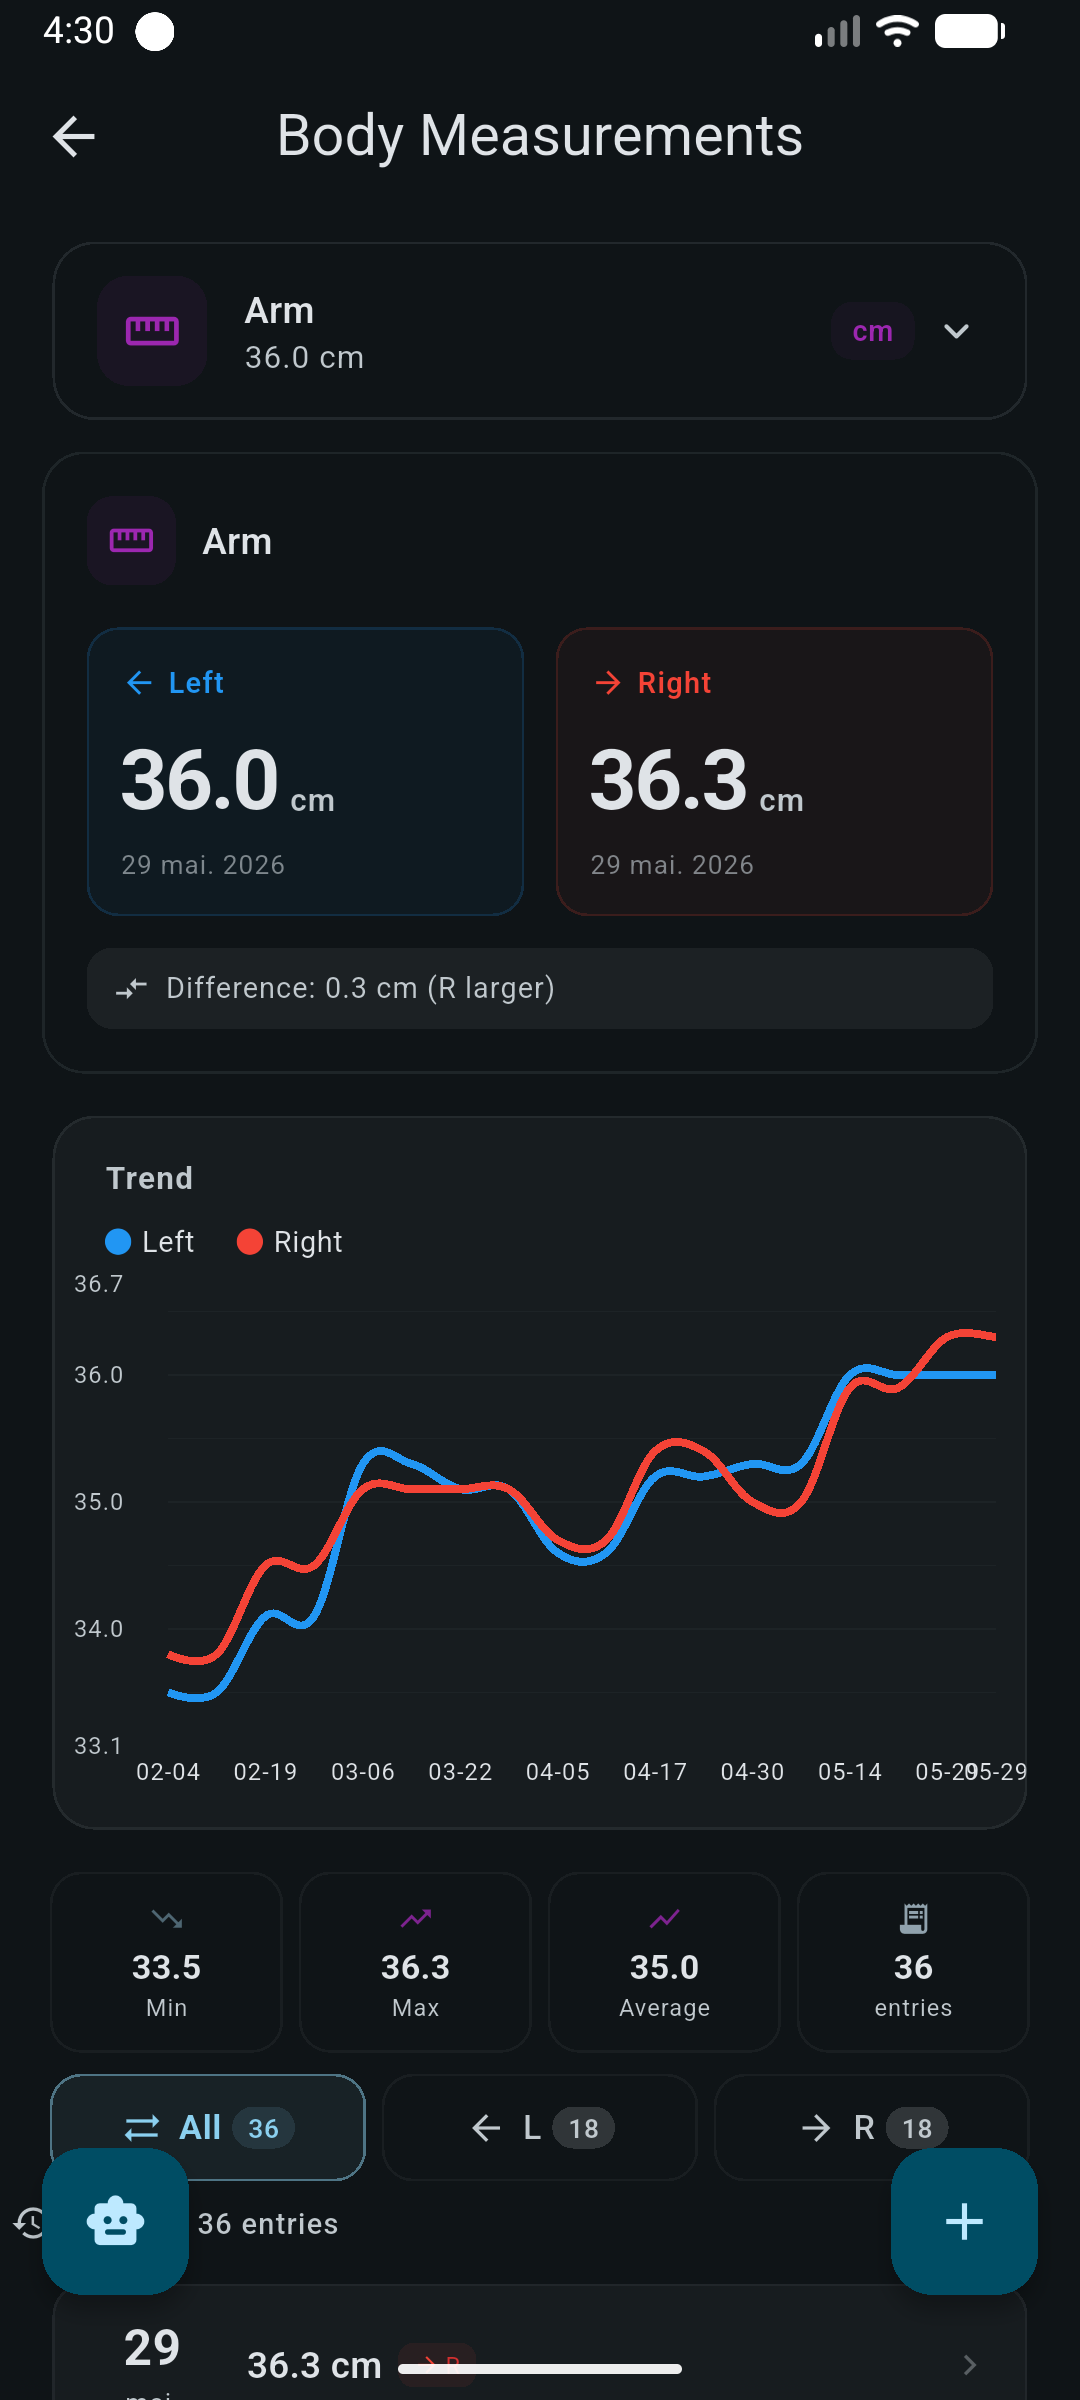
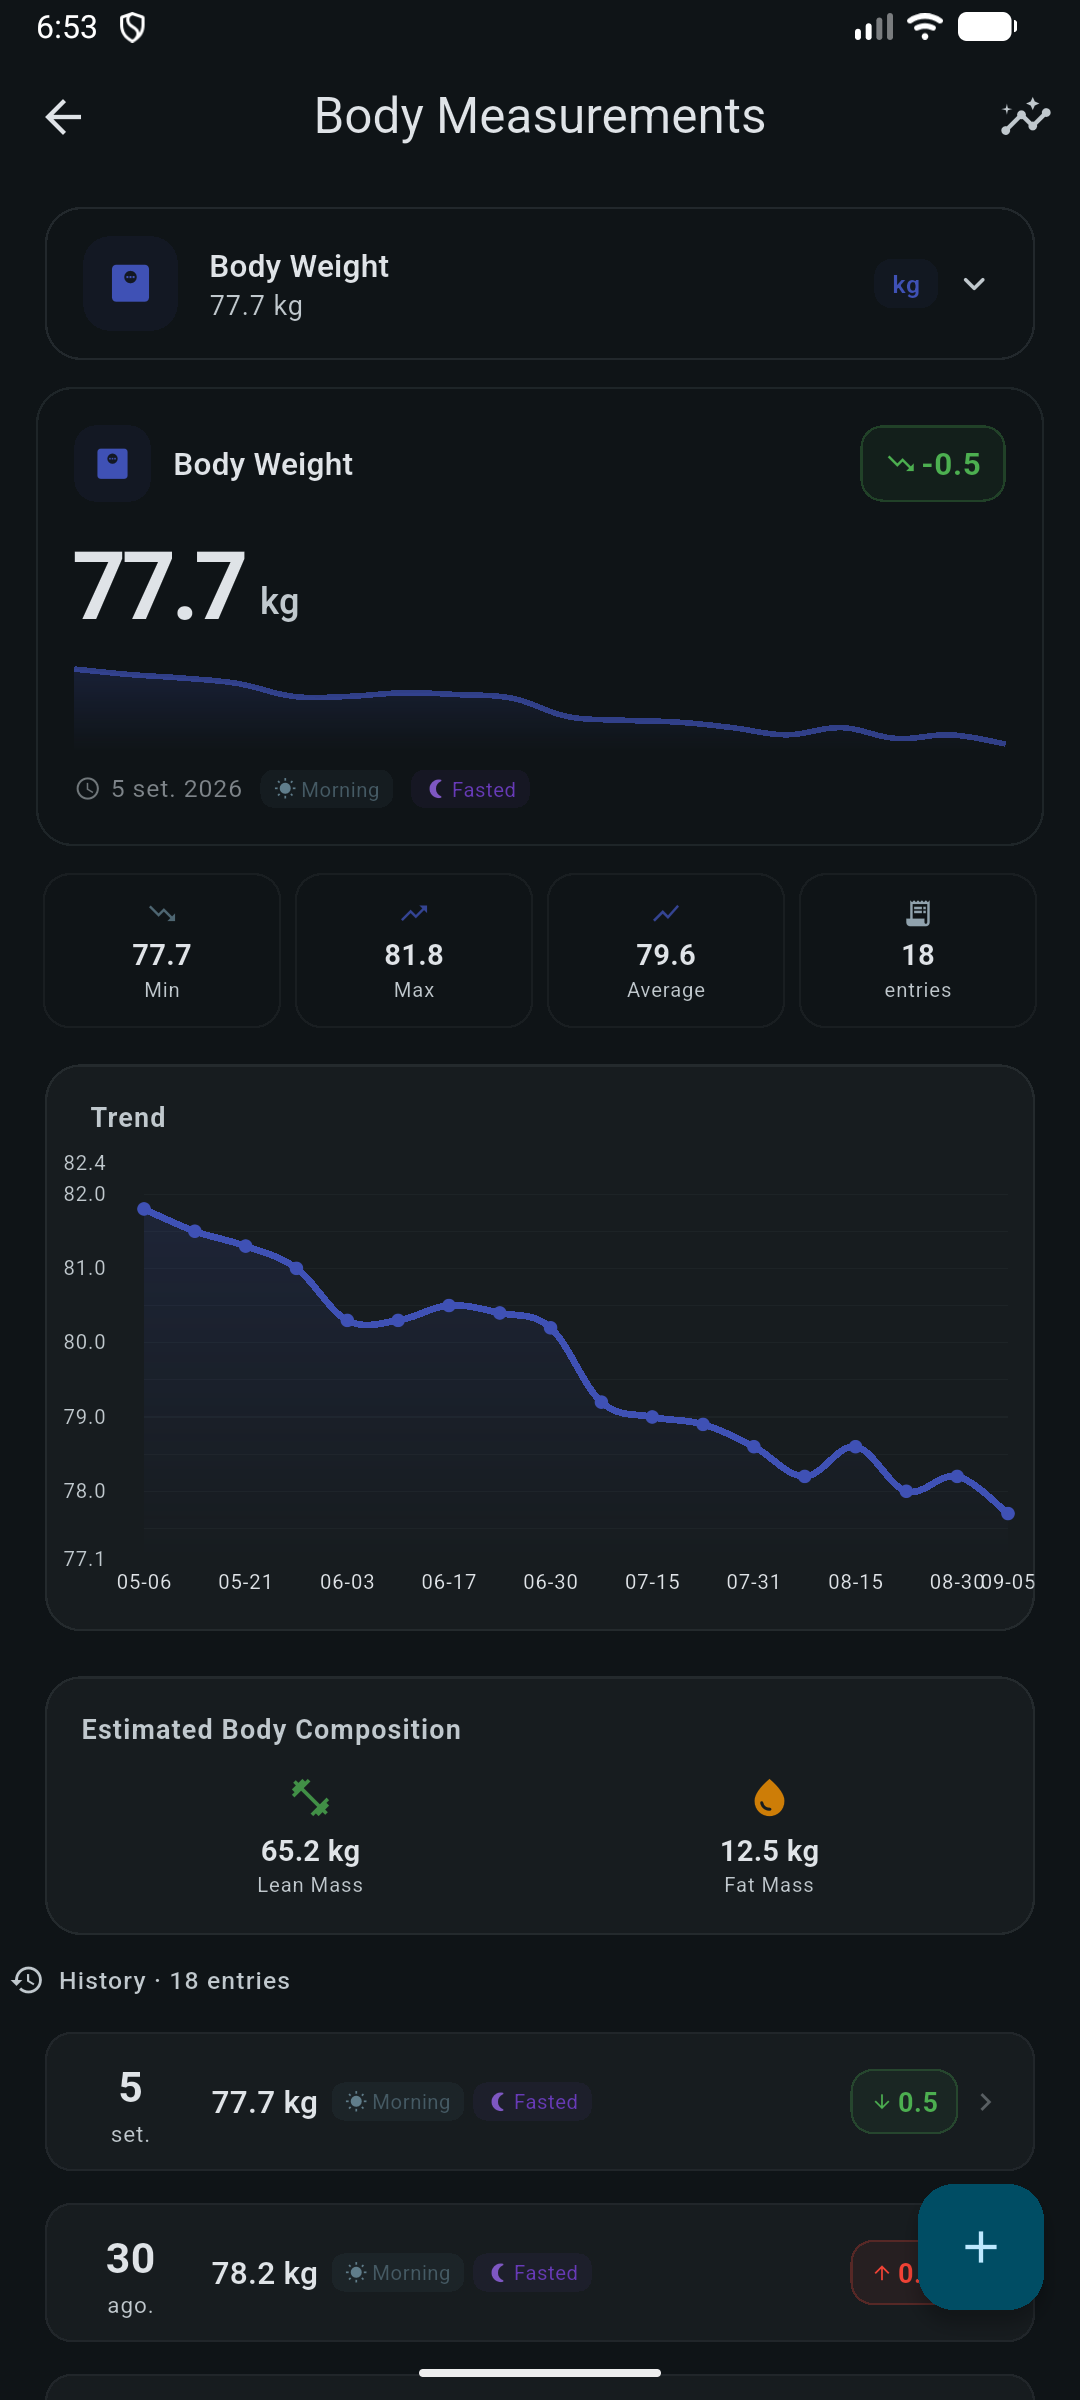
docs: refresh README and update screenshots
- Rewrite README around training, nutrition, sleep, and planning
- Replace outdated screenshots with current dark-mode captures
- Condense setup, development, and data sections

diff --git a/README.md b/README.md
@@ -1,179 +1,95 @@
 <h1 align="center">Workout Notes</h1>
 
 <p align="center">
-  <a href="https://www.linkedin.com/in/rafael-goulartb/">
-    <img alt="Rafael Goulart" src="https://img.shields.io/badge/-Rafael%20Goulart-0B7285?style=flat&logo=Linkedin&logoColor=white" />
-  </a>
-  <a href="https://github.com/RafaelGoulartB/workout-notes#readme">
-    <img alt="Documentation" src="https://img.shields.io/badge/documentation-yes-0B7285.svg" />
-  </a>
-  <a href="https://github.com/RafaelGoulartB/workout-notes/graphs/commit-activity">
-    <img alt="Maintenance" src="https://img.shields.io/badge/Maintained%3F-yes-0B7285.svg" />
-  </a>
-  <a href="https://github.com/RafaelGoulartB/workout-notes/blob/main/LICENSE">
-    <img alt="License: MIT" src="https://img.shields.io/badge/License-MIT-0B7285.svg" />
-  </a>
-  <a href="https://github.com/RafaelGoulartB/workout-notes/actions/workflows/release-android.yml">
-    <img alt="Android release" src="https://img.shields.io/github/actions/workflow/status/RafaelGoulartB/workout-notes/release-android.yml?branch=main&label=Android%20release&color=0B7285" />
-  </a>
-  <img alt="GitHub Pull Requests" src="https://img.shields.io/github/issues-pr/RafaelGoulartB/workout-notes?color=0B7285" />
-  <img alt="GitHub Contributors" src="https://img.shields.io/github/contributors/RafaelGoulartB/workout-notes?color=0B7285" />
-  <img alt="GitHub repository size" src="https://img.shields.io/github/repo-size/RafaelGoulartB/workout-notes?color=0B7285" />
-</p>
-
-> A local-first workout journal built with Flutter for logging training, routines, progress, goals, and body measurements.
-
-It is designed for recording strength and cardio sessions, following routines, and understanding progress without sending workout data to a hosted account.
-
-The app combines a practical workout logger with history, goals, body measurements, detailed charts, and an optional AI coach that connects to an OpenAI-compatible provider chosen by the user.
-
-## Screenshots
-
-<p align="center">
-  <img src="assets/screenshots/home.png" width="30%" alt="Workout Notes home screen" />
-  <img src="assets/screenshots/workout-progress.png" width="30%" alt="Active workout with exercises and sets" />
-  <img src="assets/screenshots/workout-finish.png" width="30%" alt="Completed workout summary" />
+  Training, nutrition, sleep, and progress in one local-first app.
 </p>
 
 <p align="center">
-  <img src="assets/screenshots/progress.png" width="30%" alt="Training progress and goals dashboard" />
-  <img src="assets/screenshots/body-measurements.png" width="30%" alt="Body measurement history and chart" />
+  <a href="https://github.com/RafaelGoulartB/workout-notes/actions/workflows/release-android.yml"><img alt="Android release" src="https://img.shields.io/github/actions/workflow/status/RafaelGoulartB/workout-notes/release-android.yml?branch=main&label=Android%20release&color=0B7285" /></a>
+  <a href="LICENSE"><img alt="License: MIT" src="https://img.shields.io/badge/License-MIT-0B7285.svg" /></a>
 </p>
 
-## Features
+Workout Notes brings strength training, GPS runs, food logging, sleep tracking, and body measurements together. Build routines, follow a periodized plan, and see how your habits change over time. Your journal lives on your device, with no account required.
 
-### Workout logging
+Built with Flutter and Material 3, with English and Brazilian Portuguese, metric and imperial units, light and dark themes, and a customizable accent color. **Android is the most complete target**: background tracking, sleep monitoring, alarms, barcode scanning, and run voice coaching rely on native Android integrations.
 
-- Record strength and cardio workouts with a live session timer.
-- Track weight, repetitions, distance, time, warm-up sets, RPE, and notes.
-- Configure rest times per exercise and use automatic rest-timer notifications.
-- Reorder exercises, group supersets, pause a session, or return to a workout already in progress.
-- Add a past workout quickly when a live session is not needed.
-- Review each completed session with volume, density, highlights, muscle-group distribution, and comparison with a similar workout.
+## Train and track your progress
 
-### Exercises and routines
+- **Strength training:** log sets, weight, reps, warm-ups, RPE, and notes. Build multi-day routines, group supersets, use rest timers, and review completed sessions.
+- **Running and cardio:** record GPS routes or stationary-bike sessions, follow running plans and intervals, and use voice coaching. Review pace, splits, route replays, records, and trends.
+- **Goals and measurements:** follow training volume, frequency, personal records, and an annual heatmap. Track weight, body composition, circumferences, and progress photos.
 
-- Browse, search, favorite, and create exercises.
-- Organize exercises by category, equipment, and training type.
-- Build reusable multi-day routines with predefined sets and rest periods.
-- Plan workouts for future dates and review training history from the calendar.
+<table>
+  <tr>
+    <th width="33%">Training progress</th>
+    <th width="33%">Run analysis</th>
+    <th width="33%">Body measurements</th>
+  </tr>
+  <tr>
+    <td><a href="assets/screenshots/progress.png"><img src="assets/screenshots/progress.png" width="100%" alt="Training report with goals, annual activity heatmap, and weekly workout frequency" /></a></td>
+    <td><a href="assets/screenshots/run.png"><img src="assets/screenshots/run.png" width="100%" alt="Completed GPS run with route map, distance, pace, achievements, and pace chart" /></a></td>
+    <td><a href="assets/screenshots/body-measurements.png"><img src="assets/screenshots/body-measurements.png" width="100%" alt="Body weight history with a trend chart and estimated body composition" /></a></td>
+  </tr>
+</table>
 
-### Progress and goals
+## Connect food, recovery, and planning
 
-- See monthly reports, training streaks, total volume, workout frequency, and an annual heatmap.
-- Follow strength, cardio, duration, recovery, and body-composition trends.
-- Inspect exercise history and personal records.
-- Create measurable goals and track the workouts that contribute to them.
+- **Nutrition:** keep a daily food diary with calorie and macro targets, saved meals, food search, barcode lookup, and nutrition trends.
+- **Sleep:** log nights or monitor sleep on Android. Review duration, efficiency, regularity, estimated sleep stages, and weekly summaries; configure alarms and a sleep goal.
+- **Periodization:** organize training into phases and weeks, link routines and running plans, set nutrition, training, weight, and sleep targets, and review check-ins or compare cycles.
 
-### Body measurements
+<table>
+  <tr>
+    <th width="33%">Nutrition diary</th>
+    <th width="33%">Sleep and recovery</th>
+    <th width="33%">Periodization</th>
+  </tr>
+  <tr>
+    <td><a href="assets/screenshots/nutrition.png"><img src="assets/screenshots/nutrition.png" width="100%" alt="Nutrition diary with daily calories, macronutrients, a plan-linked target, and meals" /></a></td>
+    <td><a href="assets/screenshots/sleep.png"><img src="assets/screenshots/sleep.png" width="100%" alt="Sleep dashboard with goal completion, efficiency, bedtime, and estimated sleep stages" /></a></td>
+    <td><a href="assets/screenshots/periodization.png"><img src="assets/screenshots/periodization.png" width="100%" alt="Active periodization plan with phases, weekly nutrition and training targets, and a weekly review" /></a></td>
+  </tr>
+</table>
 
-- Track weight, body composition, circumferences, and other measurements over time.
-- Compare left and right measurements for bilateral entries.
-- View trends, summaries, averages, and measurement history.
-- Attach progress photos to measurement entries.
+<sub>Captured from the Android emulator in dark mode. Tap an image to view it at full resolution.</sub>
 
-### AI Coach
+## Optional AI Coach
 
-The optional AI Coach can discuss training history and help with routine planning. It supports user-configured OpenAI-compatible providers, models, and system prompts.
+Connect your own OpenAI-compatible provider to discuss training, running, nutrition, and recovery using context from your journal. Configure the provider URL, API token, and model in **Settings > Configure AI**.
 
-The coach receives workout context only when used. API credentials are stored with the platform's secure storage, and the app does not include a hosted AI service or bundled API key. Read tools let the coach inspect local training data; routine changes are created as proposals and are applied only after explicit approval in the app.
+When used, the coach sends conversation and relevant app data to your chosen provider. Routine and manual-food changes are presented as proposals for approval before they are applied. Credentials stay in platform secure storage; no API key or hosted AI service is bundled.
 
-### Data and customization
+## Your data
 
-- Store workout data locally in SQLite; no account is required.
-- Export and restore a compact JSON backup for device migration, including
-  essential history, preferences, and progress photos. AI conversations and
-  proposals, detailed sleep stages, API tokens, runtime permissions, active
-  background state, raw diagnostics, and rebuildable caches are intentionally
-  excluded.
-- Export workout data as CSV and share completed sessions.
-- Switch between metric and imperial units.
-- Choose English or Brazilian Portuguese.
-- Use light, dark, or system theme with a selectable accent color.
+Core logging works locally in SQLite. Online features such as AI, map tiles, and remote food lookup need connectivity. Export and restore a compact JSON backup for device migration, or export workouts as CSV and share session summaries.
 
-## Tech stack
+Backups include essential history, preferences, and progress photos, but exclude API tokens, AI conversations and proposals, detailed sleep stages, permissions, and active background sessions.
 
-- [Flutter](https://flutter.dev/) and Dart
-- Material 3
-- SQLite with `sqflite`
-- `fl_chart` for analytics and progress charts
-- `flutter_local_notifications` for workout and rest timers
-- `shared_preferences` and `flutter_secure_storage` for settings and credentials
-- `http` for OpenAI-compatible AI providers
+## Run locally
 
-The project intentionally uses lightweight state management: local `setState` for screen state and `ChangeNotifier` for shared services and settings.
-
-## Getting started
-
-### Requirements
-
-- Flutter SDK compatible with Dart 3.12 or newer
-- Android Studio or Xcode, depending on the target platform
-- A configured emulator or physical device
-
-Check your environment before installing dependencies:
+Use a Flutter SDK with Dart **3.12.1 or a compatible newer 3.x version**, Android tooling, and an emulator or physical device.
 
 ```bash
 flutter doctor
 flutter pub get
-```
-
-Run the app:
-
-```bash
 flutter run
 ```
 
-To use the AI Coach, open **Settings > Configure AI** and add the base URL, API token, and model for an OpenAI-compatible provider. The rest of the app works without AI configuration.
-
 ## Development
 
-Generate localization files, run static analysis, and execute the test suite with:
+The app uses `setState` and `ChangeNotifier`, SQLite repositories, and Kotlin services for Android background features. Feature code lives in `lib/screens`, `lib/services`, and `lib/repositories`; shared plan logic lives in `lib/periodization`.
 
 ```bash
 flutter gen-l10n
 flutter analyze
 flutter test
+flutter build apk --release
 ```
 
-Build an Android APK with:
+For native unit tests, run `./gradlew test` from `android/` (`.\gradlew.bat test` on Windows). See [AGENTS.md](AGENTS.md) for architecture, migrations, localization, and contribution conventions. Issues and pull requests are welcome.
 
-```bash
-flutter build apk
-```
-
-The Android release workflow runs for app-related changes that reach `main`. Documentation-only changes such as `README.md` and `LICENSE` do not start a new APK build. The workflow can still be started manually from the Actions tab.
-
-## Project structure
-
-```text
-lib/
-├── database/       SQLite setup, migrations, and seed data
-├── l10n/           English and Brazilian Portuguese translations
-├── models/         Workout, goal, and AI chat models
-├── navigation/     Shared navigation helpers
-├── repositories/   Data access and domain queries
-├── screens/        App screens and workout flows
-├── services/       Timers, exports, notifications, and AI integrations
-├── state/          Shared ChangeNotifier services
-├── utils/          Formatting and calculation helpers
-└── widgets/        Reusable UI components
-```
-
-Workout data is persisted in SQLite. Settings use a mix of SQLite and `shared_preferences`, while AI provider tokens are kept in secure platform storage.
-
-## Contributing
-
-Issues and pull requests are welcome. For larger changes, open an issue first so the approach can be discussed before implementation.
-
-When submitting a change:
-
-1. Keep the existing local-first architecture and Material 3 design conventions.
-2. Add visible text to both ARB localization files.
-3. Include migrations for database schema changes.
-4. Run `flutter analyze` and `flutter test`.
-5. Add or update tests when changing repositories, services, or database behavior.
+The Android release workflow validates app changes on `main` before building an APK. README and screenshot-only changes do not trigger it; manual runs are available in Actions.
 
 ## License
 
-This project is licensed under the MIT License. See the [LICENSE](LICENSE) file for details.
+[MIT](LICENSE) · [Rafael Goulart](https://www.linkedin.com/in/rafael-goulartb/)
